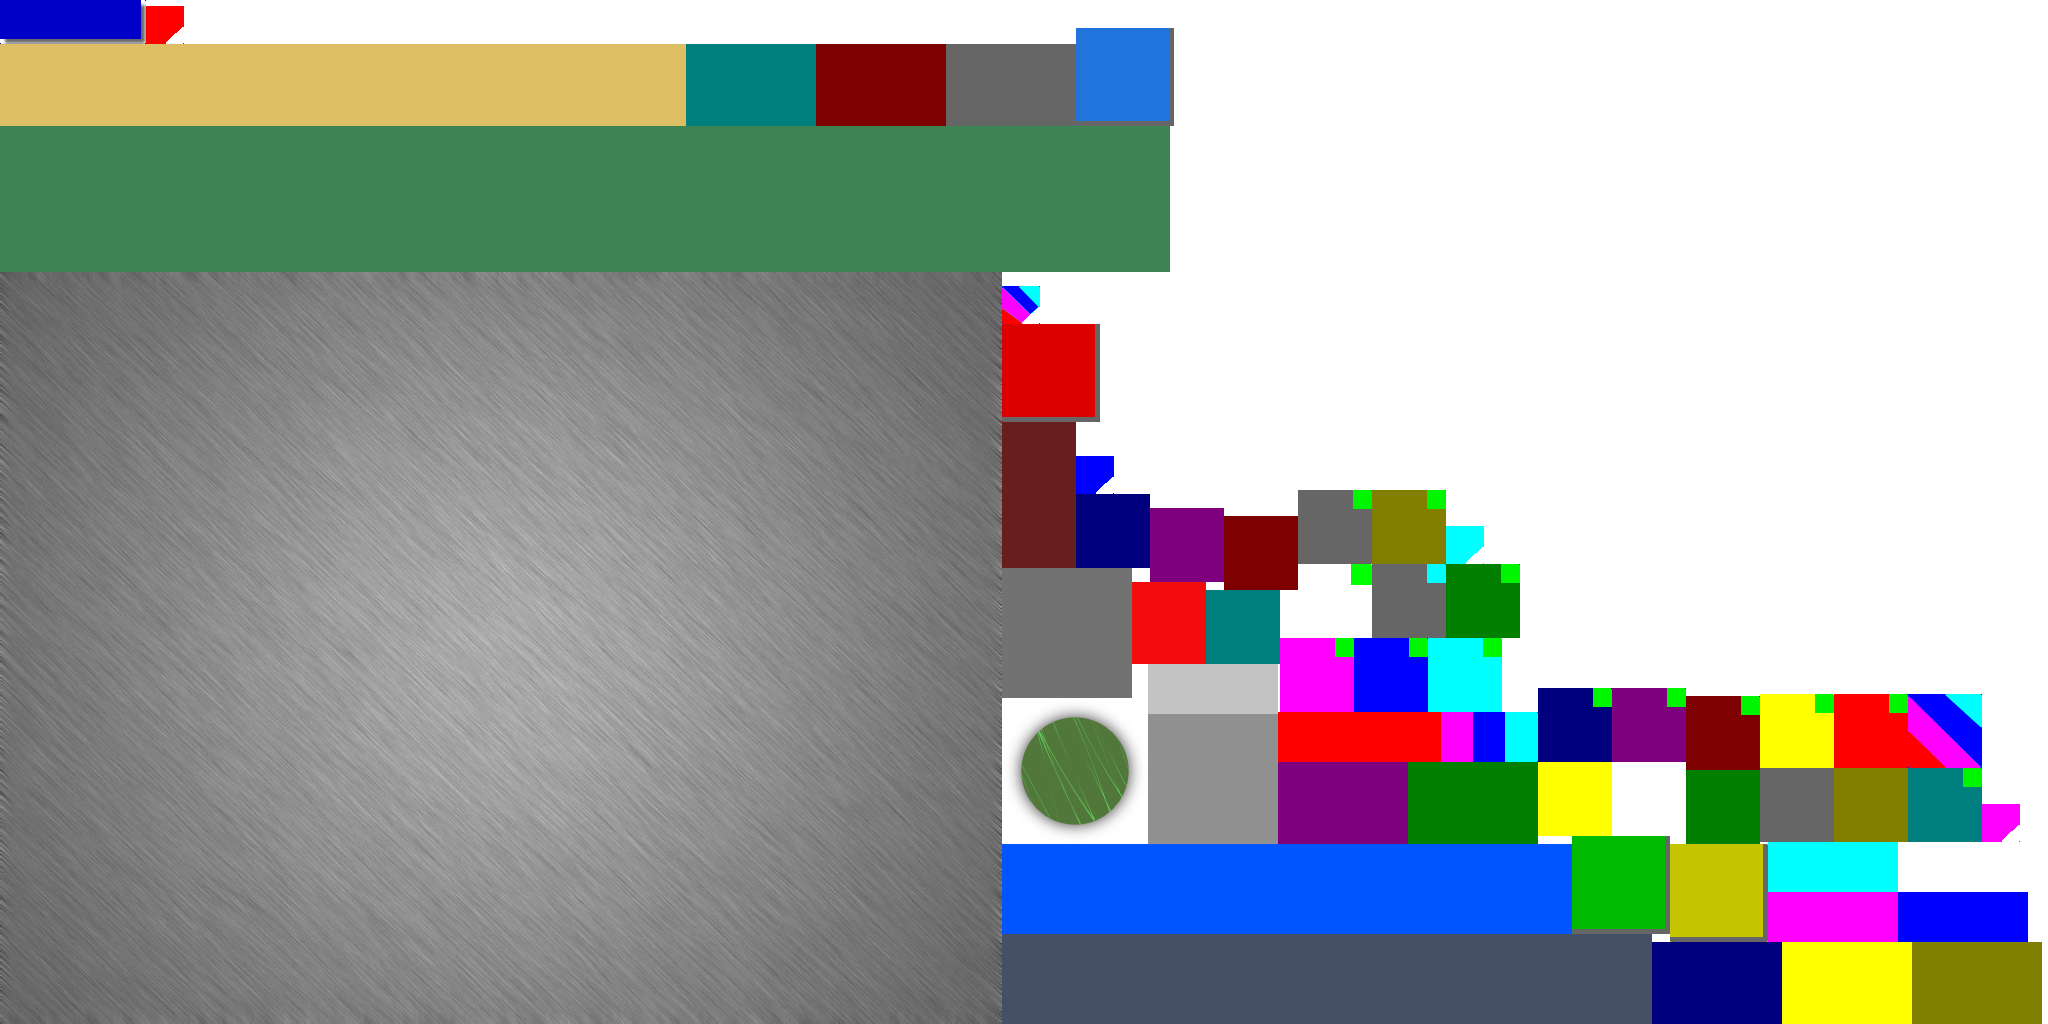
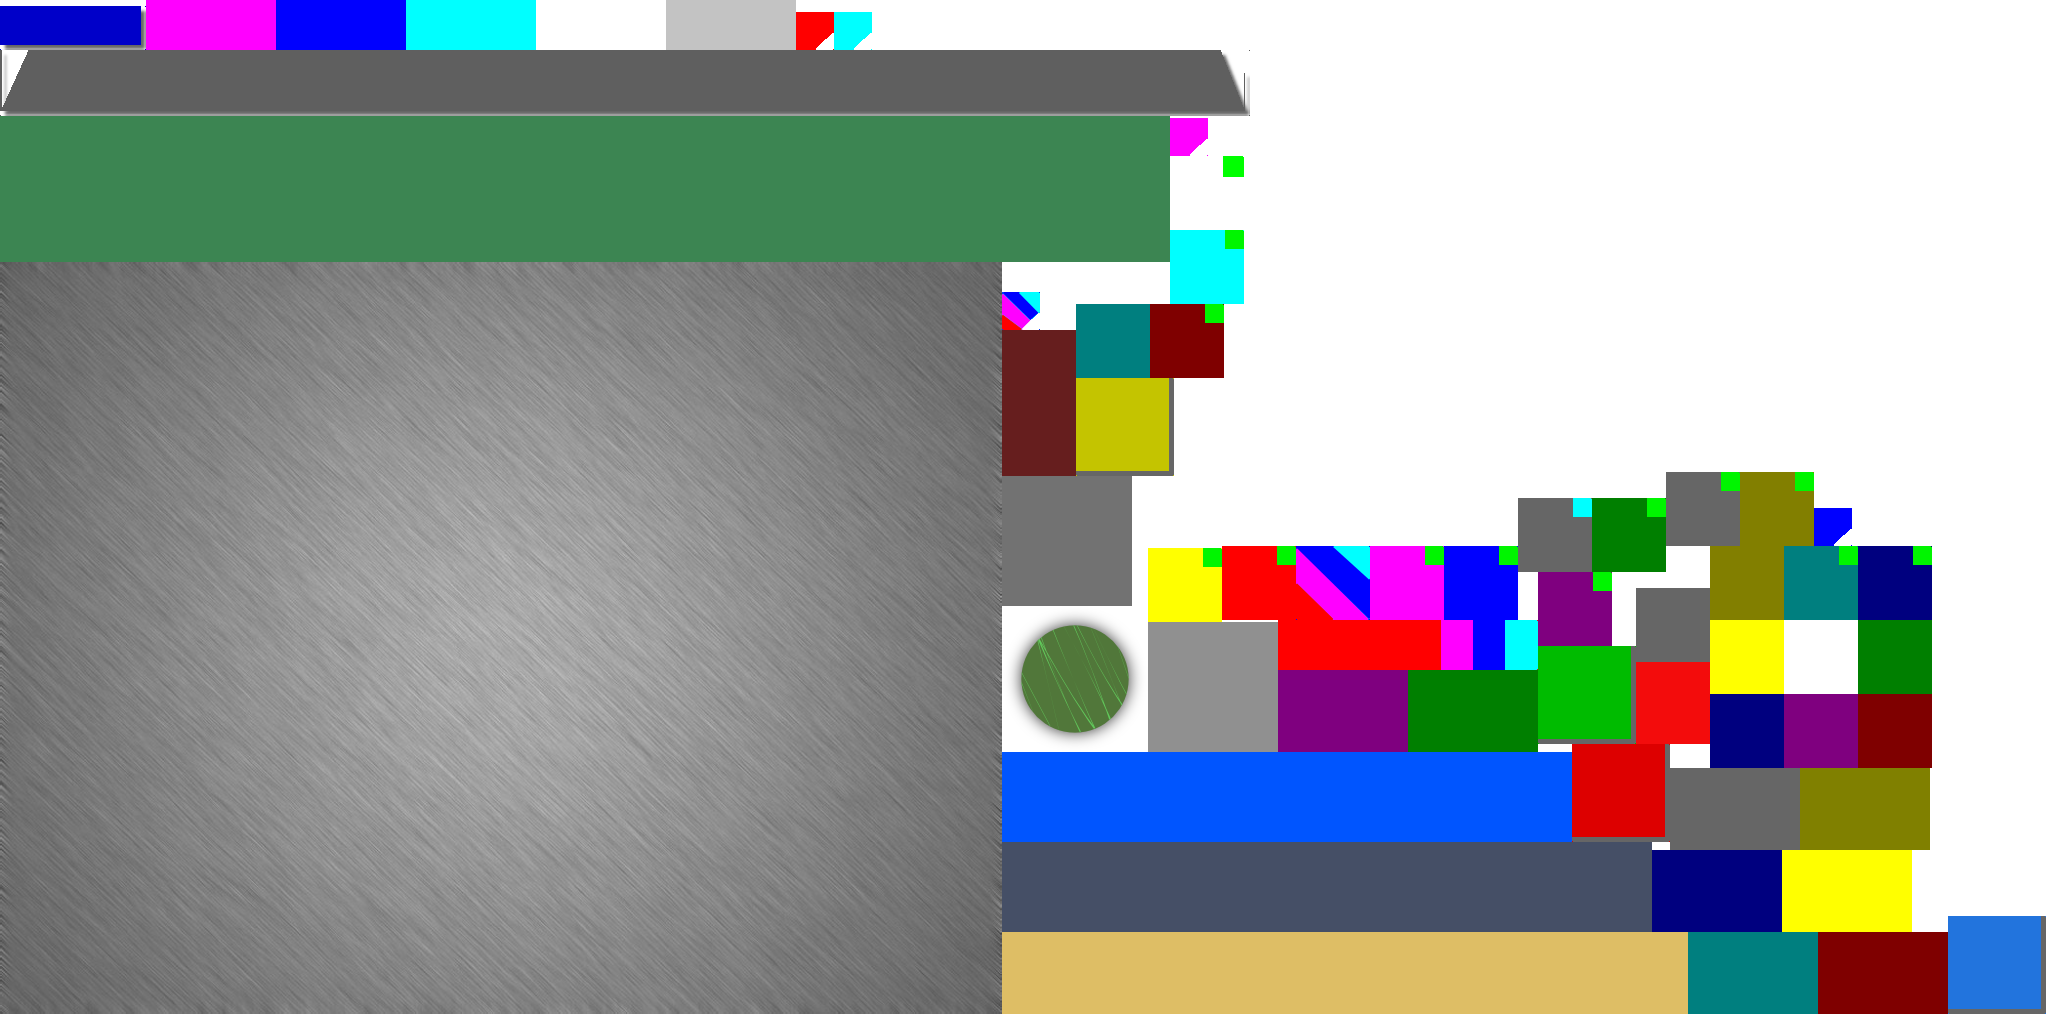
resources?

diff --git a/IP-Game/src/jie/android/ip/screen/menu/PackGroup.java b/IP-Game/src/jie/android/ip/screen/menu/PackGroup.java
@@ -88,13 +88,23 @@ public class PackGroup extends BaseGroup {
 			bg.setBounds(0, 0, Const.Item.WIDTH, Const.Item.HEIGHT);
 			this.addActor(bg);
 
-			final ImageActor top = new ImageActor(textureAtlas.findRegion(Image.Item.FRAME));
-			top.setBounds(Const.Item.FRAME_TOP_X, Const.Item.FRAME_TOP_Y, Const.Item.FRAME_WIDTH, Const.Item.FRAME_HEIGHT);
+//			final ImageActor top = new ImageActor(textureAtlas.findRegion(Image.Item.FRAME));
+//			top.setBounds(Const.Item.FRAME_TOP_X, Const.Item.FRAME_TOP_Y, Const.Item.FRAME_WIDTH, Const.Item.FRAME_HEIGHT);
+//			this.addActor(top);
+//
+//			final ImageActor bottom = new ImageActor(textureAtlas.findRegion(Image.Item.FRAME));
+//			bottom.setBounds(Const.Item.FRAME_BOTTOM_X, Const.Item.FRAME_BOTTOM_Y, Const.Item.FRAME_WIDTH, Const.Item.FRAME_HEIGHT);
+//			this.addActor(bottom);
+			
+			ImageActor top = new ImageActor(textureAtlas.findRegion(Image.Item.FRAME_TOP));
+			//top.setBounds(4, ScreenConfig.HEIGHT - 16, ScreenConfig.WIDTH - 4, 16);
+			top.setBounds(Const.Item.FRAME_X, Const.Item.FRAME_Y_TOP, Const.Item.FRAME_WIDTH, Const.Item.FRAME_HEIGHT_TOP);
 			this.addActor(top);
-
-			final ImageActor bottom = new ImageActor(textureAtlas.findRegion(Image.Item.FRAME));
-			bottom.setBounds(Const.Item.FRAME_BOTTOM_X, Const.Item.FRAME_BOTTOM_Y, Const.Item.FRAME_WIDTH, Const.Item.FRAME_HEIGHT);
-			this.addActor(bottom);
+			
+			ImageActor bottom = new ImageActor(textureAtlas.findRegion(Image.Item.FRAME_BOTTOM));
+			//bottom.setBounds(4, 0, ScreenConfig.WIDTH - 4, 16);
+			bottom.setBounds(Const.Item.FRAME_X, Const.Item.FRAME_Y_BOTTOM, Const.Item.FRAME_WIDTH, Const.Item.FRAME_HEIGHT_BOTTOM);
+			this.addActor(bottom);					
 			
 			final Script st = new Script(id); 
 			if (!st.loadString(script)) {

diff --git a/IP-Game/src/jie/android/ip/screen/menu/MenuConfig.java b/IP-Game/src/jie/android/ip/screen/menu/MenuConfig.java
@@ -23,7 +23,8 @@ public interface MenuConfig {
 		
 		public interface Item {
 			public static final String Item_Bg = "background";
-			public static final String FRAME = "box_frame";
+			public static final String FRAME_TOP = "box_frame_top";
+			public static final String FRAME_BOTTOM = "box_frame_bottom";
 			public static final String TRAY = "tray";
 			public static final String BOX_0 = "box_a";
 		}		
@@ -75,12 +76,19 @@ public interface MenuConfig {
 			public static final int WIDTH = (ScreenConfig.WIDTH - SPACE_X * 2 - BASE_X * 2) / 3;
 			public static final int HEIGHT = 232;
 			
-			public static final int FRAME_HEIGHT = 2;
-			public static final int FRAME_WIDTH = WIDTH - 16;
-			public static final int FRAME_TOP_X = 8;
-			public static final int FRAME_TOP_Y = HEIGHT - 16;
-			public static final int FRAME_BOTTOM_X = 8;
-			public static final int FRAME_BOTTOM_Y = 16;
+//			public static final int FRAME_HEIGHT = 2;
+//			public static final int FRAME_WIDTH = WIDTH - 16;
+//			public static final int FRAME_TOP_X = 8;
+//			public static final int FRAME_TOP_Y = HEIGHT - 16;
+//			public static final int FRAME_BOTTOM_X = 8;
+//			public static final int FRAME_BOTTOM_Y = 16;
+			
+			public static final int FRAME_X = 16;
+			public static final int FRAME_Y_TOP = ScreenConfig.HEIGHT - 16;
+			public static final int FRAME_Y_BOTTOM = 4;
+			public static final int FRAME_WIDTH = ScreenConfig.WIDTH - FRAME_X * 2;
+			public static final int FRAME_HEIGHT_TOP = 16;
+			public static final int FRAME_HEIGHT_BOTTOM = 64;			
 
 			public static final int BLOCK_WIDTH = 24;
 			public static final int BLOCK_HEIGHT = 24;			

diff --git a/IP-Game/src/jie/android/ip/screen/play/BoxGroup.java b/IP-Game/src/jie/android/ip/screen/play/BoxGroup.java
@@ -40,12 +40,16 @@ public class BoxGroup {
 		
 		@Override
 		protected void initStage() {
-			ImageActor top = new ImageActor(textureAtlas.findRegion(Image.Box.FRAME));
-			top.setBounds(4, ScreenConfig.HEIGHT - 16, ScreenConfig.WIDTH - 4, 16);
+			//this.setBounds(0, 0, ScreenConfig.WIDTH, ScreenConfig.HEIGHT);
+			
+			ImageActor top = new ImageActor(textureAtlas.findRegion(Image.Box.FRAME_TOP));
+			//top.setBounds(4, ScreenConfig.HEIGHT - 16, ScreenConfig.WIDTH - 4, 16);
+			top.setBounds(Const.Box.FRAME_X, Const.Box.FRAME_Y_TOP, Const.Box.FRAME_WIDTH, Const.Box.FRAME_HEIGHT_TOP);
 			this.addActor(top);
 			
-			ImageActor bottom = new ImageActor(textureAtlas.findRegion(Image.Box.FRAME));
-			bottom.setBounds(4, 0, ScreenConfig.WIDTH - 4, 16);
+			ImageActor bottom = new ImageActor(textureAtlas.findRegion(Image.Box.FRAME_BOTTOM));
+			//bottom.setBounds(4, 0, ScreenConfig.WIDTH - 4, 16);
+			bottom.setBounds(Const.Box.FRAME_X, Const.Box.FRAME_Y_BOTTOM, Const.Box.FRAME_WIDTH, Const.Box.FRAME_HEIGHT_BOTTOM);
 			this.addActor(bottom);			
 		}
 		

diff --git a/IP-Game/src/jie/android/ip/screen/play/PlayConfig.java b/IP-Game/src/jie/android/ip/screen/play/PlayConfig.java
@@ -10,7 +10,8 @@ public interface PlayConfig {
 		public static final String BACKGROUND = "background";
 		
 		public interface Box {
-			public static final String FRAME = "box_frame";
+			public static final String FRAME_TOP = "box_frame_top";
+			public static final String FRAME_BOTTOM = "box_frame_bottom";
 			
 			public static final String BOX_0 = "box_a";
 			public static final String BOX_1 = "box_b";
@@ -132,6 +133,14 @@ public interface PlayConfig {
 		public interface Box {
 			public static final int MAX_ROW = 6;
 			public static final int MAX_COL = 9;
+			
+			public static final int FRAME_X = 16;
+			public static final int FRAME_Y_TOP = ScreenConfig.HEIGHT - 16;
+			public static final int FRAME_Y_BOTTOM = 4;
+			public static final int FRAME_WIDTH = ScreenConfig.WIDTH - FRAME_X * 2;
+			public static final int FRAME_HEIGHT_TOP = 16;
+			public static final int FRAME_HEIGHT_BOTTOM = 64;
+			
 			
 			public static final int BLOCK_WIDTH = 96;
 			public static final int BLOCK_HEIGHT = 96;
